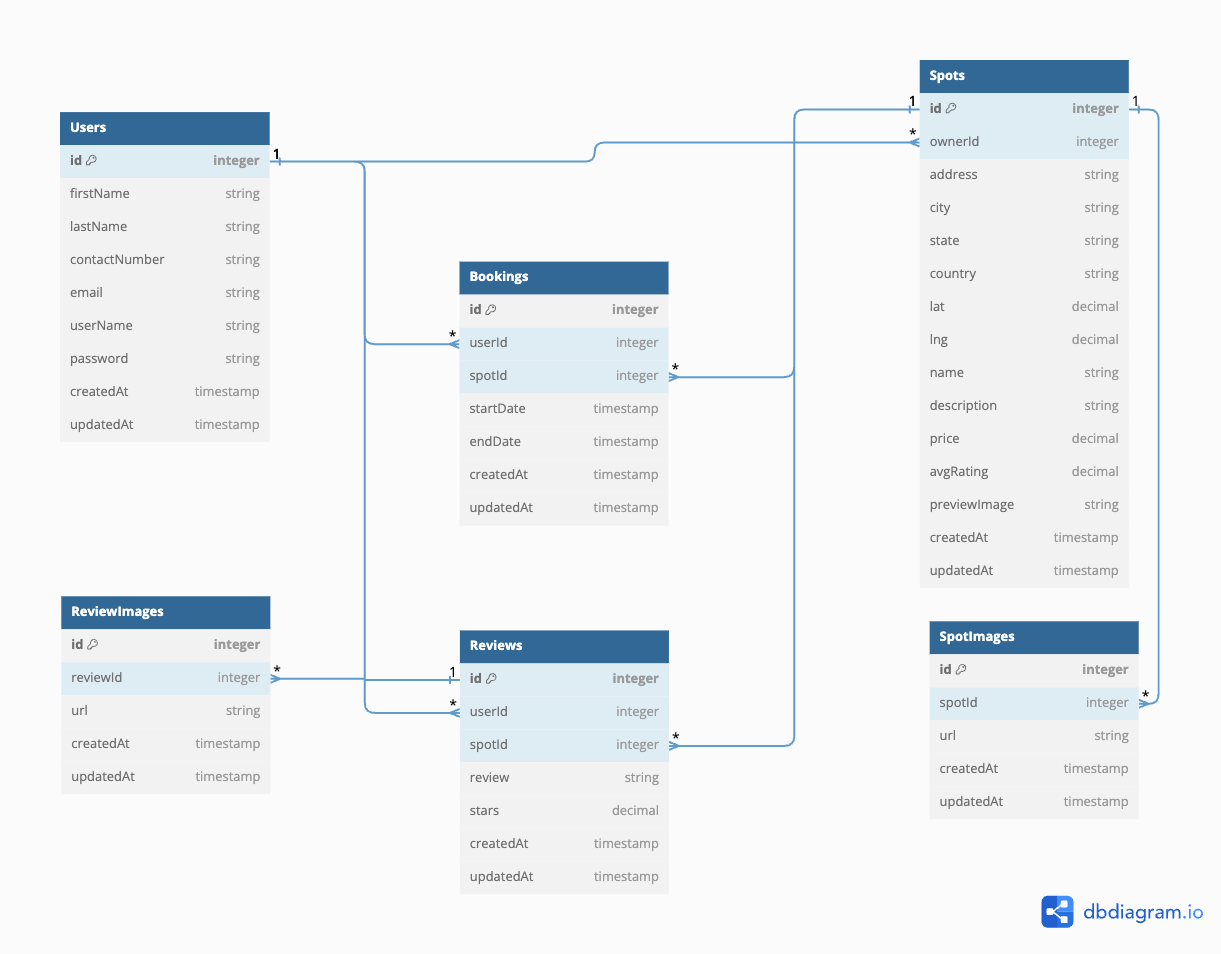
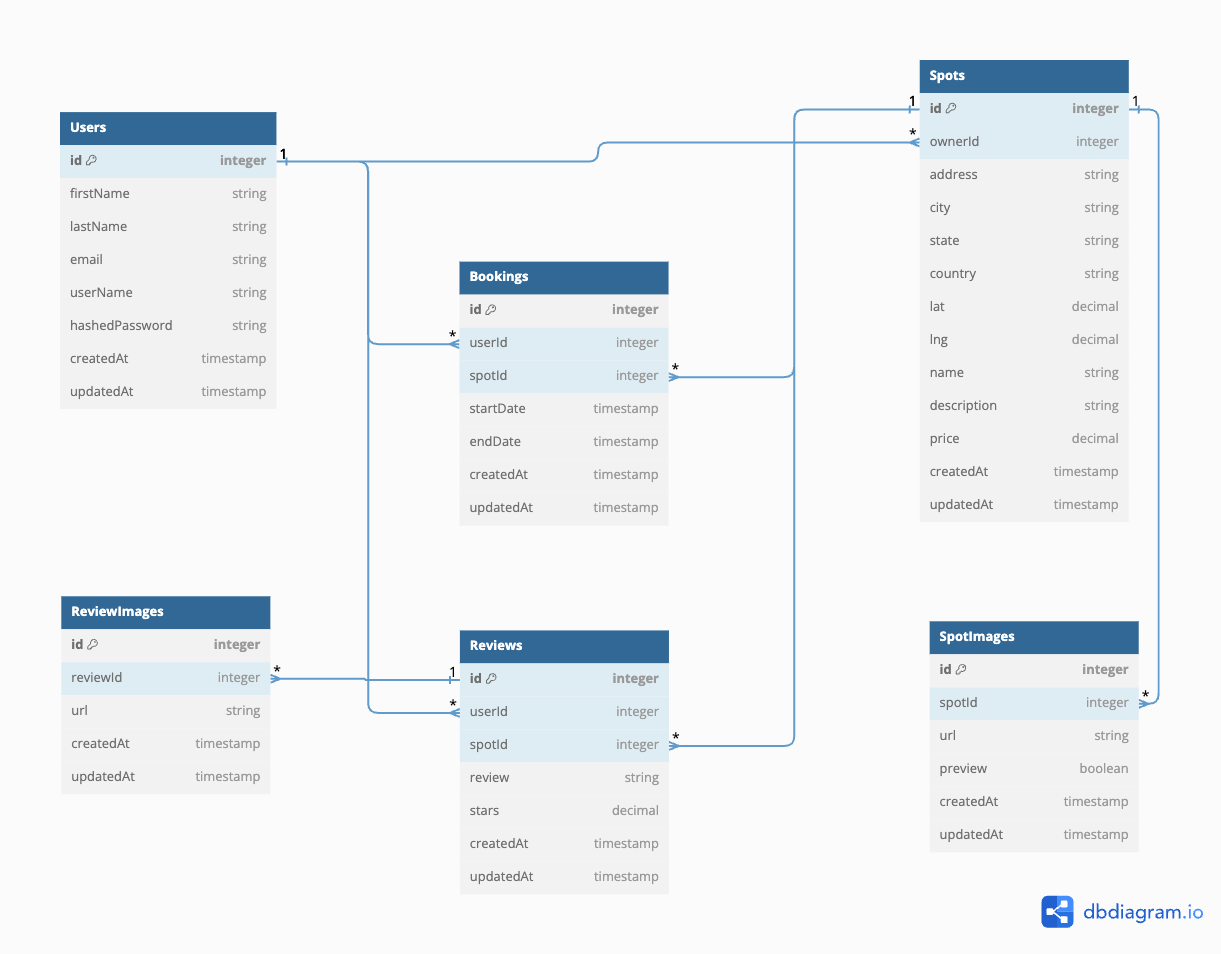
update schema

diff --git a/docs/db/schema.md b/docs/db/schema.md
@@ -2,67 +2,72 @@
 // Docs: https://dbml.dbdiagram.io/docs
 
 Table Users {
-  id integer PK
-  firstName string
-  lastName string
-  contact_no integer
-  email string
-  userName string
-  password string
-  createdAt timestamp
-  updatedAt timestamp
+id integer PK
+firstName string
+lastName string
+email string
+userName string
+hashedPassword string
+createdAt timestamp
+updatedAt timestamp
 }
 
 Table Spots{
-  id integer PK
-  ownerId integer
-  address string
-  city string
-  state string
-  country string
-  lat decimal
-  lng decimal
-  name string
-  description string
-  price decimal
-  avgRating decimal
-  previewImage string
-  createdAt timestamp
-  updatedAt timestamp
+id integer PK
+ownerId integer
+address string
+city string
+state string
+country string
+lat decimal
+lng decimal
+name string
+description string
+price decimal
+createdAt timestamp
+updatedAt timestamp
 }
 Ref: "Spots"."ownerId" > "Users"."id"
 
+Table SpotImages {
+id integer PK
+spotId integer
+url string
+preview boolean
+createdAt timestamp
+updatedAt timestamp
+}
+Ref: "SpotImages"."spotId" > "Spots"."id"
+
 Table Reviews {
-  id integer PK
-  userId integer
-  spotId integer
-  review string
-  stars decimal
-  createdAt timestamp
-  updatedAt timestamp
+id integer PK
+userId integer
+spotId integer
+review string
+stars decimal
+createdAt timestamp
+updatedAt timestamp
 }
 Ref: "Reviews"."userId" > "Users"."id"
 Ref: "Reviews"."spotId" > "Spots"."id"
 
+Table ReviewImages {
+id integer PK
+reviewId integer
+url string
+createdAt timestamp
+updatedAt timestamp
+}
+Ref: "ReviewImages"."reviewId" > "Reviews"."id"
+
 Table Bookings {
-  id integer PK
-  userId integer
-  spotId integer
-  startDate timestamp
-  endDate timestamp
-  createdAt timestamp
-  updatedAt timestamp
+id integer PK
+userId integer
+spotId integer
+startDate timestamp
+endDate timestamp
+createdAt timestamp
+updatedAt timestamp
 }
 Ref: "Bookings"."spotId" > "Spots"."id"
 Ref: "Bookings"."userId" > "Users"."id"
-
-Table Images {
-  id integer PK
-  spotId integer
-  reviewId integer
-  url string
-  createdAt timestamp
-  updatedAt timestamp
-}
-Ref: "Images"."spotId" > "Spots"."id"
-Ref: "Images"."reviewId" > "Reviews"."id"
